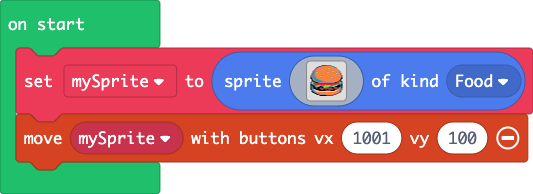
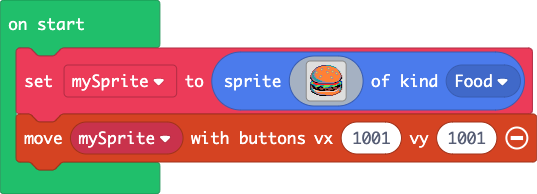
Update main.blocks, main.ts

diff --git a/main.ts b/main.ts
@@ -32,4 +32,4 @@ f 6 6 d d f f f f f e e e f f e f f e e e e e f f e e d b 4 6 e
 . . . . . . . . . f f f f f f f c c c c c e e . . . . . . . . . 
 . . . . . . . . . . . . . . . . . . . . . . . . . . . . . . . . 
 `, SpriteKind.Food)
-controller.moveSprite(mySprite, 1001, 100)
+controller.moveSprite(mySprite, 1001, 1001)
